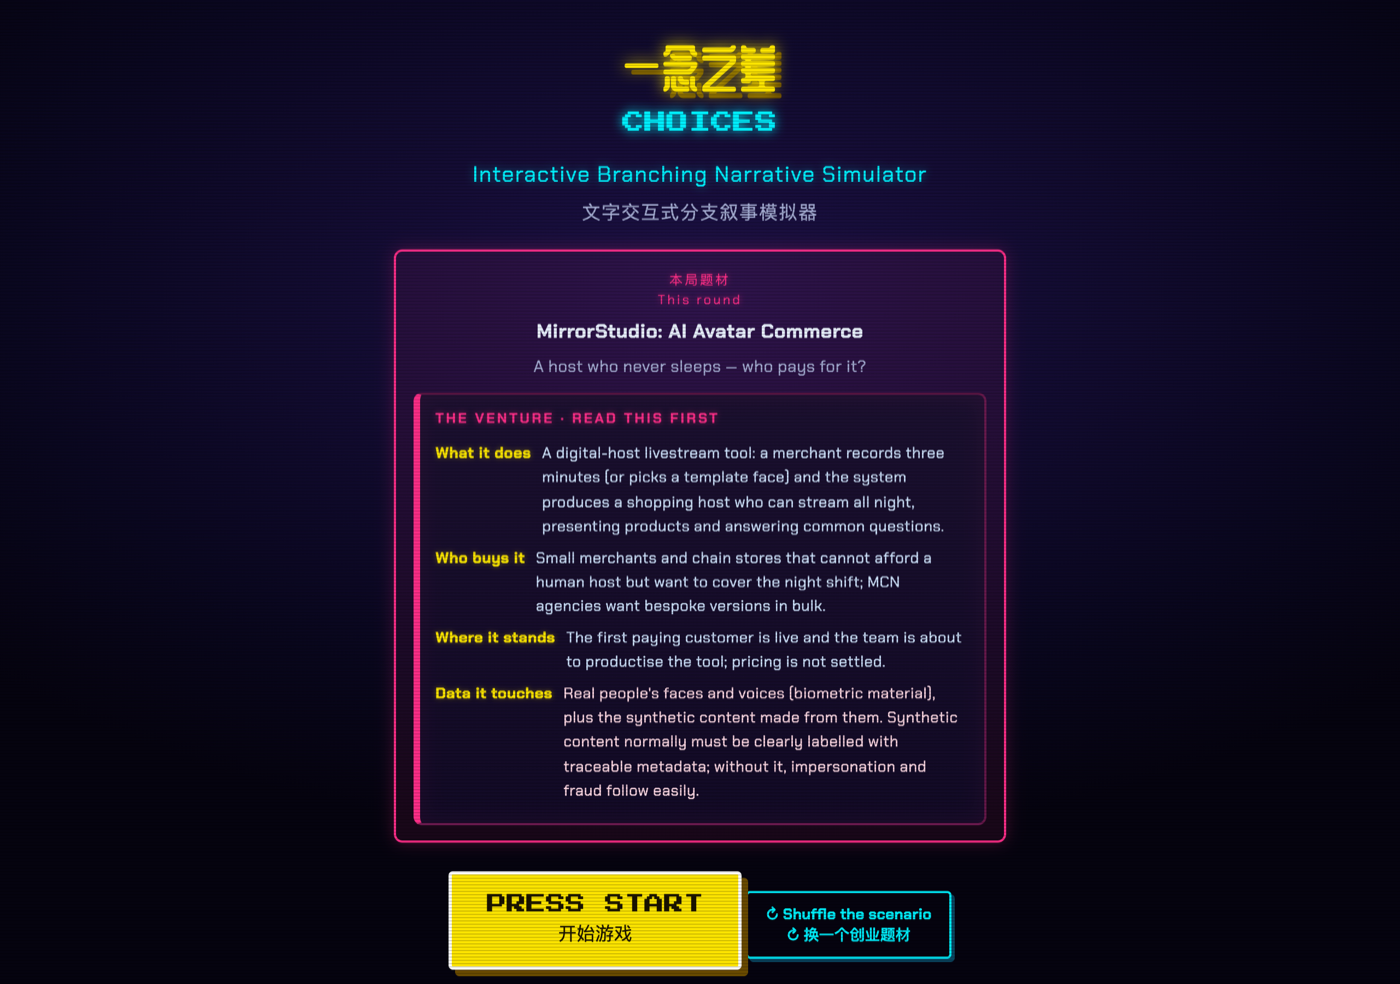
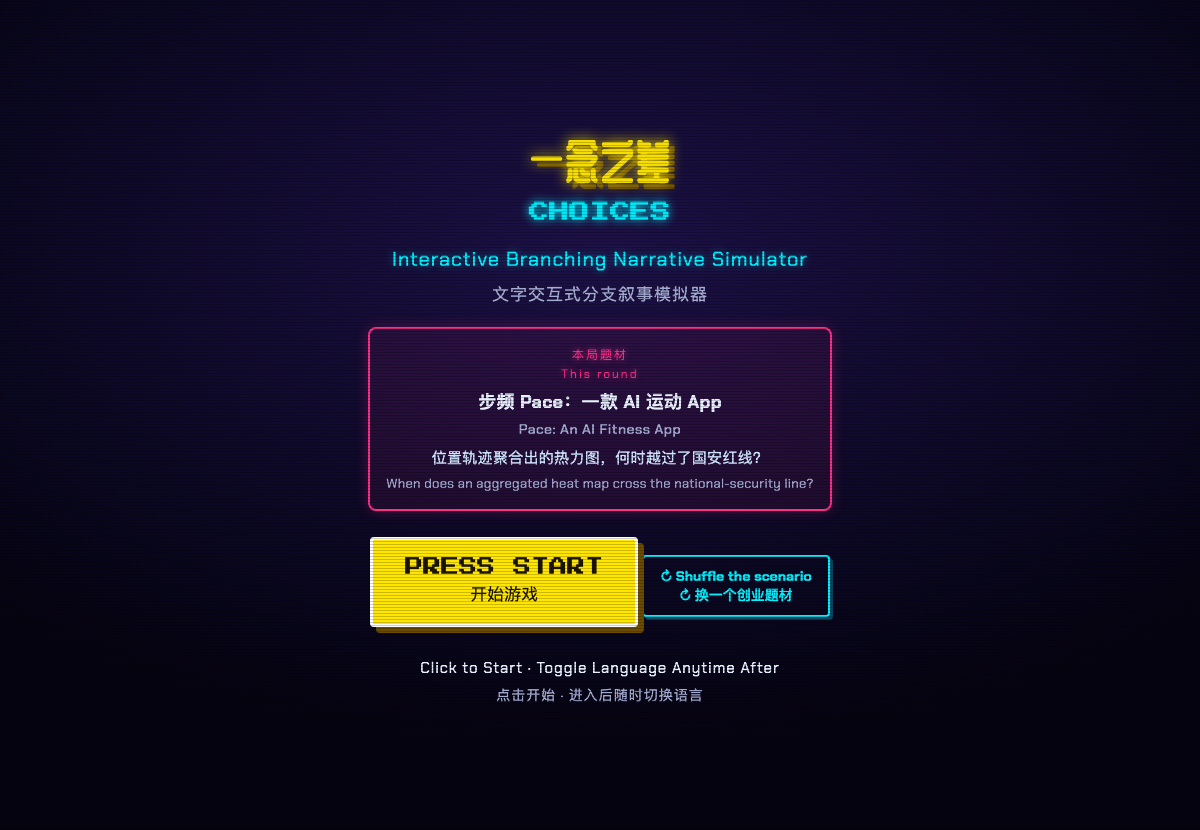
Default to English and refresh the stale start-screen screenshot
Fixes #2: the game no longer auto-switches to Chinese on a Chinese-locale browser. English is the default; pin a demo with ?lang=zh / ?lang=en, and the header toggle still switches anytime.

Fixes #6: re-captured docs/screenshot.png from the current start screen (bilingual venture card, no brief on the cover, shuffle button).

Changed region(s): [[0.2775, 0.0301, 0.74, 0.994], [0.7092, 0.2711, 0.74, 0.3313]]

diff --git a/player.js b/player.js
@@ -760,9 +760,9 @@
     var params = new URLSearchParams(location.search);
     var langParam = params.get('lang');
     if (langParam === 'en' || langParam === 'zh') lang = langParam;
-    // 未显式指定 ?lang= 时，跟随浏览器语言：中文环境开局直接进中文，
-    // 否则仍是英文（课堂演示可用 ?lang=zh / ?lang=en 锁定）。
-    else if (navigator.language && navigator.language.toLowerCase().indexOf('zh') === 0) lang = 'zh';
+    // Default language is English. A Chinese-browser environment no longer
+    // auto-switches to Chinese; pin a demo with ?lang=zh / ?lang=en, or use
+    // the header toggle at runtime.
 
     document.querySelectorAll('#lang-toggle button').forEach(function (b) {
       b.addEventListener('click', function () { setLang(b.getAttribute('data-lang')); });
